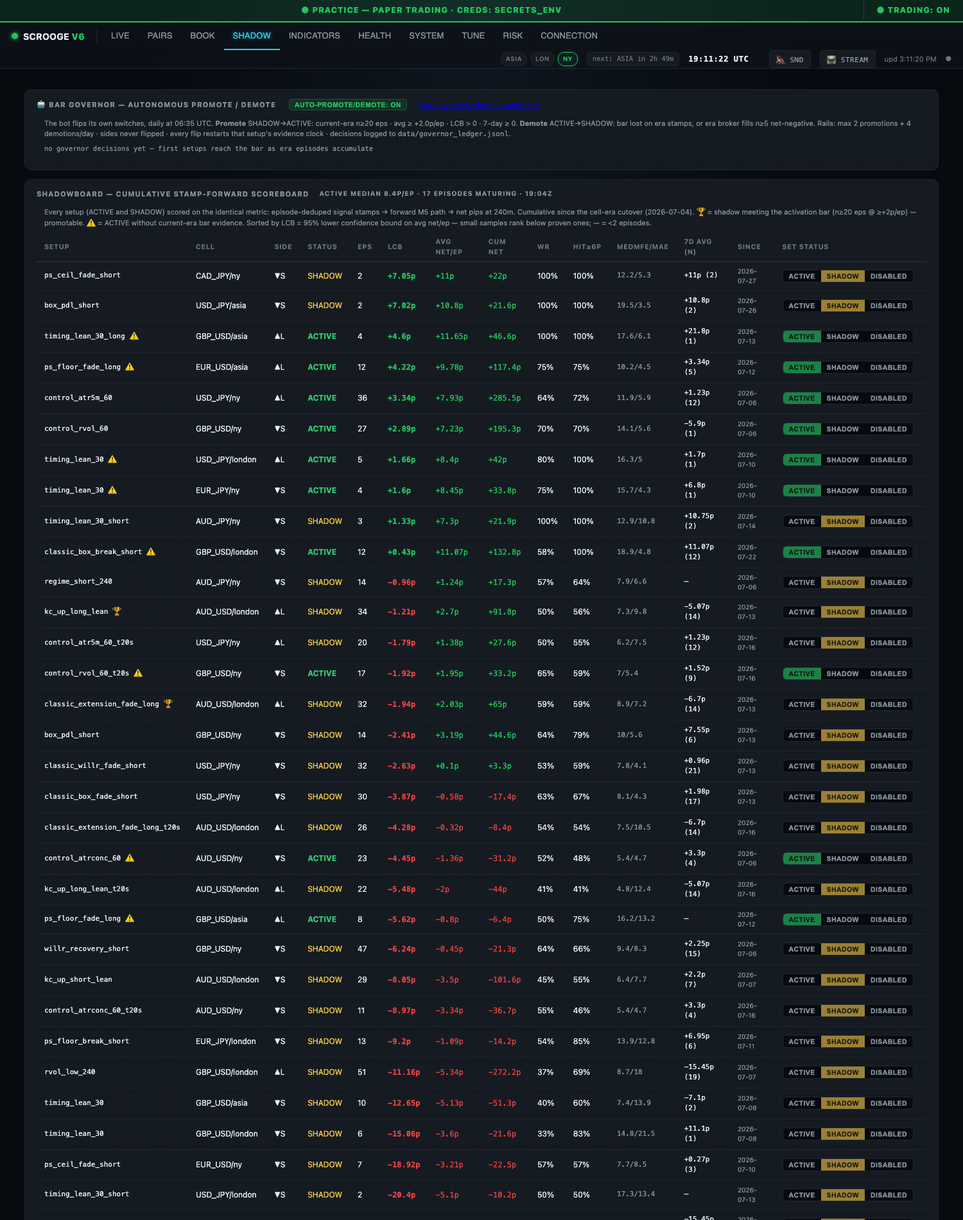
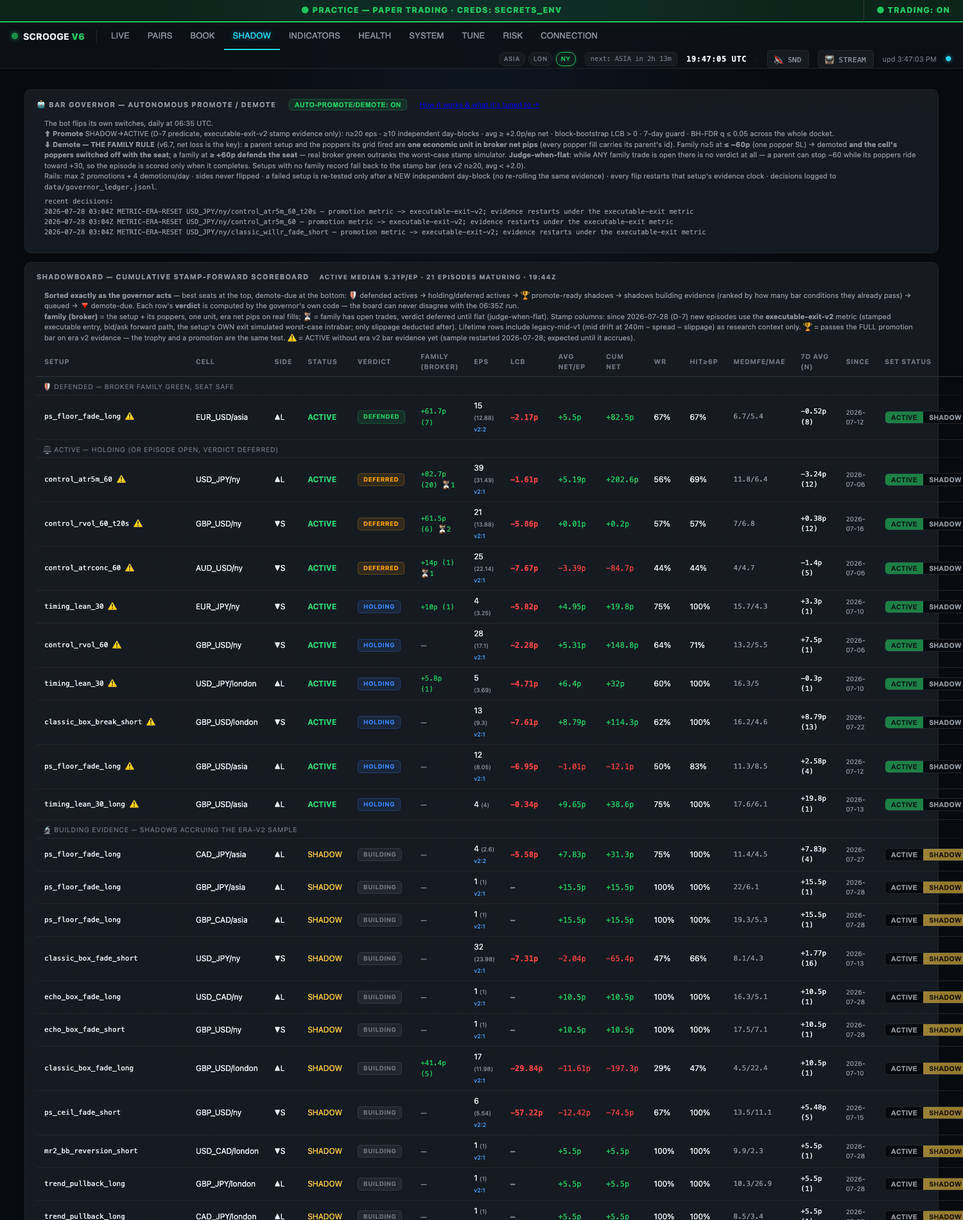
THE BOARD EXPLAINS ITSELF: shadowboard sorted and labeled by the governor
Every row carries the verdict the governor would reach today (DEFENDED /
HOLDING / DEFERRED / PROMOTE READY / BUILDING / QUEUED / DEMOTE DUE),
its broker family net pips (with open-trade deferral badges), and the
board sorts in governor order — defended seats at the top, demote-due
at the bottom, tier headers between. The SHADOW tab states the full
standard: promotion bar, family rule thresholds, judge-when-flat.
Fixes the undefined/undefined ledger lines for ERA-RESET entries.
README: governor-order shadowboard, judge-when-flat, family-rule
motivation in the forward-test list, refreshed SHADOW screenshot.

diff --git a/ops/panel.html b/ops/panel.html
@@ -772,11 +772,19 @@ body.has-ticker{padding-bottom:32px}
          How it works &amp; what it&#39;s tuned to →</a>
     </div>
     <div class="muted" style="padding:0 12px 6px;font-size:11px">
-      The bot flips its own switches, daily at 06:35 UTC. <b>Promote</b> SHADOW→ACTIVE
-      (D-7 predicate, executable-exit-v2 evidence only): n≥20 eps · ≥10 independent
-      day-blocks · avg ≥ +2.0p/ep net · block-bootstrap LCB &gt; 0 · 7-day guard ·
-      BH-FDR q ≤ 0.05 across the whole docket.
-      <b>Demote</b> ACTIVE→SHADOW: bar lost on era v2 stamps, or era broker fills n≥5 net-negative.
+      The bot flips its own switches, daily at 06:35 UTC.<br>
+      <b>⬆ Promote</b> SHADOW→ACTIVE (D-7 predicate, executable-exit-v2 stamp evidence
+      only): n≥20 eps · ≥10 independent day-blocks · avg ≥ +2.0p/ep net ·
+      block-bootstrap LCB &gt; 0 · 7-day guard · BH-FDR q ≤ 0.05 across the whole docket.<br>
+      <b>⬇ Demote — THE FAMILY RULE</b> (v6.7, net loss is the key): a parent setup and
+      the poppers its grid fired are <b>one economic unit in broker net pips</b> (every
+      popper fill carries its parent&#39;s id). Family n≥5 at <b>≤ −60p</b> (one popper SL)
+      → demoted <b>and the cell&#39;s poppers switched off with the seat</b>; a family at
+      <b>≥ +60p defends the seat</b> — real broker green outranks the worst-case stamp
+      simulator. <b>Judge-when-flat</b>: while ANY family trade is open there is no verdict
+      at all — a parent can stop −60 while its poppers ride toward +30, so the episode is
+      scored only when it completes. Setups with no family record fall back to the stamp
+      bar (era v2 n≥20, avg &lt; +2.0).<br>
       Rails: max 2 promotions + 4 demotions/day · sides never flipped · a failed setup is
       re-tested only after a NEW independent day-block (no re-rolling the same evidence) ·
       every flip restarts that setup&#39;s evidence clock · decisions logged to
@@ -790,19 +798,28 @@ body.has-ticker{padding-bottom:32px}
       <span id="sb-meta" class="muted" style="font-size:10px;margin-left:8px"></span>
     </div>
     <div class="muted" style="padding:0 12px 8px;font-size:11px">
-      Every setup (ACTIVE and SHADOW) scored on the identical metric. Since 2026-07-28 (D-7) new episodes use the
-      <b>executable-exit-v2</b> metric: the stamped executable entry (ask long / bid short), a bid/ask forward path, and the setup's
-      OWN exit geometry simulated worst-case intrabar — spread is paid inside the geometry, only slippage is deducted after.
-      Older lifetime rows are legacy-mid-v1 (mid drift at 240m, minus spread + slippage) and remain as research context only.
-      🏆 = shadow passing the governor's FULL promotion predicate on current-era v2 evidence: n≥20 · ≥10 independent day-blocks ·
-      avg ≥ +2p net · block-bootstrap LCB &gt; 0 · 7d guard · BH-FDR q ≤ 0.05 — the trophy and a promotion are the same test.
-      ⚠ = ACTIVE without current-era v2 bar evidence (the v2 sample restarted at zero on 2026-07-28's metric change; expected until it accrues).
-      Sorted by lifetime LCB (z≈2.33, overlap-aware n) for continuity; capital decisions read only the era evidence.
+      <b>Sorted exactly as the governor acts</b> — best seats at the top, demote-due at the
+      bottom: 🛡 defended actives → holding/deferred actives → 🏆 promote-ready shadows →
+      shadows building evidence (ranked by how many bar conditions they already pass) →
+      queued → 🔻 demote-due. Each row&#39;s <b>verdict</b> is computed by the governor&#39;s own
+      code — the board can never disagree with the 06:35Z run.<br>
+      <b>family (broker)</b> = the setup + its poppers, one unit, era net pips on real
+      fills; ⏳ = family has open trades, verdict deferred until flat (judge-when-flat).
+      Stamp columns: since 2026-07-28 (D-7) new episodes use the <b>executable-exit-v2</b>
+      metric (stamped executable entry, bid/ask forward path, the setup&#39;s OWN exit
+      simulated worst-case intrabar; only slippage deducted after). Lifetime rows include
+      legacy-mid-v1 (mid drift at 240m − spread − slippage) as research context only.
+      🏆 = passes the FULL promotion bar on era v2 evidence — the trophy and a promotion
+      are the same test. ⚠ = ACTIVE without era v2 bar evidence yet (sample restarted
+      2026-07-28; expected until it accrues).
     </div>
     <table id="sb-tbl" style="width:100%">
       <thead><tr>
-        <th>setup</th><th>cell</th><th>side</th><th>status</th><th>eps</th>
-        <th title="avg - 1.645·sd/√n — the board's sort key">LCB</th>
+        <th>setup</th><th>cell</th><th>side</th><th>status</th>
+        <th title="The governor's own call for this row, today: DEFENDED / HOLDING / DEFERRED / PROMOTE READY / BUILDING (with the bar conditions still failing) / QUEUED / DEMOTE DUE">verdict</th>
+        <th title="Broker family: parent + its poppers, one unit — era net pips (n trades) · ⏳k = k trades open, verdict deferred until flat">family (broker)</th>
+        <th>eps</th>
+        <th title="lifetime avg − z·sd/√n_eff (display only — capital reads era v2 + family)">LCB</th>
         <th>avg net/ep</th><th>cum net</th><th>WR</th><th>hit≥6p</th><th>medMFE/MAE</th><th>7d avg (n)</th><th>since</th>
         <th title="Promote a good shadow to ACTIVE, or DISABLE it — writes config/cells">set status</th>
       </tr></thead>
@@ -1102,7 +1119,18 @@ async function pollShadowboard(){
     const d=await r.json();
     document.getElementById('sb-meta').textContent=
       `active median ${d.active_median??'—'}p/ep · ${d.pending||0} episodes maturing · ${(d.generated||'').slice(11,16)}Z`;
+    const TIER_ICON={1:'🛡',2:'⚖',3:'🏆',4:'🔬',5:'⏳',6:'🔻',7:'🪦'};
+    let lastTier=null;
     document.getElementById('sb-body').innerHTML=(d.rows||[]).map(x=>{
+      const tier=x.gov?x.gov.tier:7;
+      let hdr='';
+      if(tier!==lastTier){
+        lastTier=tier;
+        const lbl=(d.tiers&&d.tiers[tier])||'';
+        hdr=`<tr><td colspan="16" style="padding:8px 10px 4px;font-size:10.5px;letter-spacing:.06em;
+          text-transform:uppercase;color:var(--fg3);border-bottom:1px solid rgba(255,255,255,.06)">
+          ${TIER_ICON[tier]||''} ${lbl}</td></tr>`;
+      }
       // D-7: bar_met IS the governor's promotion predicate (current-era v2
       // evidence, block bootstrap, BH-FDR) — trophy == promotable, exactly.
       const eraTip=x.era?`era v2: n=${x.era.n} days=${x.era.days} avg=${x.era.avg}p blcb=${x.era.lcb??'—'} q=${x.era.q??'—'}${x.era.codes&&x.era.codes.length?' fails:'+x.era.codes.join(','):''}`
@@ -1118,10 +1146,27 @@ async function pollShadowboard(){
       const ctrl=(pair&&session&&x.setup)?statusControl(pair,session,x.setup,liveStatus,'sb')
         :'<span class="muted">—</span>';
       const pn=(v,d=0)=>v==null?'—':(v>0?'+':'')+v+'p';   // null-safe pips
-      return `<tr${x.queued?' style="opacity:.55"':''}>
+      // the governor's verdict + the broker family cell (v6.8.0)
+      const g=x.gov;
+      const VCLS={'DEFENDED':'pill-pass','PROMOTE READY':'pill-pass','HOLDING':'pill-info',
+                  'DEFERRED':'pill-warn','BUILDING':'pill-block','QUEUED':'pill-block',
+                  'DEMOTE DUE':'pill-fail'};
+      const vcell=g?`<span class="pill ${VCLS[g.verdict]||'pill-block'}" title="${g.reason||''}"
+        style="font-size:9.5px">${g.verdict}</span>`:'<span class="muted">—</span>';
+      let fcell='<span class="muted">—</span>';
+      if(g&&g.family&&(g.family.n||g.family.n_open)){
+        const fn=g.family.net_pips, open=g.family.n_open;
+        fcell=`<span class="mono ${fn>0?'pos':(fn<0?'neg':'muted')}"
+          title="parent + its poppers, era broker net: ${fn>0?'+':''}${fn}p over ${g.family.n} closed trade(s) (\$${g.family.net_usd})${open?' · '+open+' open — verdict deferred until flat':''}">
+          ${g.family.n?((fn>0?'+':'')+fn+'p ('+g.family.n+')'):'no closes yet'}${open?' ⏳'+open:''}</span>`;
+      }
+      return hdr+`<tr${x.queued?' style="opacity:.55"':''}>
         <td class="mono" style="font-size:11px">${x.setup}${beat}${warn}${x.queued?' <span class="muted" title="wired, awaiting first scored episode (stamps mature after 4h)">⏳</span>':''}</td>
         <td>${x.cell}</td><td>${x.side==='long'?'▲L':'▼S'}</td>
-        <td ${stcls}>${x.status}</td><td title="raw episodes (overlap-adjusted effective n) · v2 = executable-exit metric episodes">${x.episodes}${x.n_eff!=null?' <span class="muted" style="font-size:9px">('+x.n_eff+')</span>':''}${x.n_v2?' <span style="font-size:9px;color:#4aa3ff" title="executable-exit-v2 episodes'+(x.n_ambig?' ('+x.n_ambig+' ambiguous-bar, scored worst-case)':'')+'">v2:'+x.n_v2+'</span>':''}</td>
+        <td ${stcls}>${x.status}</td>
+        <td>${vcell}</td>
+        <td style="font-size:11px">${fcell}</td>
+        <td title="raw episodes (overlap-adjusted effective n) · v2 = executable-exit metric episodes">${x.episodes}${x.n_eff!=null?' <span class="muted" style="font-size:9px">('+x.n_eff+')</span>':''}${x.n_v2?' <span style="font-size:9px;color:#4aa3ff" title="executable-exit-v2 episodes'+(x.n_ambig?' ('+x.n_ambig+' ambiguous-bar, scored worst-case)':'')+'">v2:'+x.n_v2+'</span>':''}</td>
         <td class="mono ${x.lcb==null?'muted':(x.lcb>0?'pos':'neg')}"><b>${x.lcb==null?'—':(x.lcb>0?'+':'')+x.lcb+'p'}</b></td>
         <td class="mono ${x.avg_net240==null?'muted':ncls}">${pn(x.avg_net240)}</td>
         <td class="mono ${x.cum_net240==null?'muted':(x.cum_net240>0?'pos':'neg')}">${pn(x.cum_net240)}</td>
@@ -1146,8 +1191,10 @@ async function pollGovernor(){
       `<button class="pill ${on?'pill-pass':'pill-fail'}" style="cursor:pointer;border:none;font-weight:700"
         onclick="setGovernor(${!on})" title="Toggle autonomous promote/demote (writes config/governor_config.json)">
         AUTO-PROMOTE/DEMOTE: ${on?'ON':'OFF'}</button>`;
-    const led=(d.ledger_tail||[]).slice(0,3).map(e=>
-      `${(e.t||'').slice(0,16).replace('T',' ')}Z ${e.action} ${e.pair}/${e.session}/${e.setup}${e.dry_run?' (dry-run)':''} — ${e.why||''}`);
+    const led=(d.ledger_tail||[]).slice(0,3).map(e=>{
+      // flip entries carry pair/session/setup; ERA-RESET entries carry "key"
+      const who=e.pair?`${e.pair}/${e.session}/${e.setup}`:(e.key||'').replace(/\|/g,'/');
+      return `${(e.t||'').slice(0,16).replace('T',' ')}Z ${e.action} ${who}${e.dry_run?' (dry-run)':''} — ${e.why||''}`;});
     document.getElementById('gov-ledger').innerHTML=
       led.length?('recent decisions:<br>'+led.map(escape).join('<br>'))
                 :'no governor decisions yet — first setups reach the bar as era episodes accumulate';

diff --git a/ops/shadowboard.py b/ops/shadowboard.py
@@ -234,6 +234,70 @@ def _setup_aliases():
     except Exception:
         return {}
 
+_FAM_CACHE: dict = {"ts": 0.0, "data": {}}
+_FAM_TTL_S = 600     # broker families view refreshed at most every 10 min
+
+
+def _families():
+    """(pair, family_setup) -> broker families row (parent + poppers, one
+    unit, incl. n_open). Cached; runs only inside the refresh daemon thread,
+    never in a request handler. Empty dict on any failure — the board then
+    simply shows no family column, it never breaks."""
+    now = time.time()
+    if now - _FAM_CACHE["ts"] < _FAM_TTL_S:
+        return _FAM_CACHE["data"]
+    try:
+        import sys as _sys
+        out = subprocess.run(
+            [_sys.executable, str(_ROOT / "research" / "tools" / "broker_setup_audit.py"),
+             "--json"], capture_output=True, text=True, timeout=180)
+        fams = {(r["instrument"], r["setup"]): r
+                for r in json.loads(out.stdout).get("families", [])}
+        _FAM_CACHE.update(ts=now, data=fams)
+    except Exception:
+        _FAM_CACHE["ts"] = now          # don't hammer a failing audit
+    return _FAM_CACHE["data"]
+
+
+# Governor-ordered tiers — the board sorts EXACTLY the way capital moves.
+TIER_LABELS = {
+    1: "DEFENDED — broker family green, seat safe",
+    2: "ACTIVE — holding (or episode open, verdict deferred)",
+    3: "PROMOTE READY — passes the full bar at the next 06:35Z run",
+    4: "BUILDING EVIDENCE — shadows accruing the era-v2 sample",
+    5: "QUEUED — wired, no scored era evidence yet",
+    6: "DEMOTE DUE — loses the seat at the next 06:35Z run",
+    7: "RETIRED / EX-SIDE — history kept as the autopsy",
+}
+
+
+def _gov_verdict(status, era_dict, e_obj, f, gc, min_raw):
+    """One row's governor view -> (tier, verdict, reason, score).
+    Mirrors ops.governor exactly: ACTIVE rows through active_verdict (family
+    rule + judge-when-flat, e_obj = the SetupEvidence the governor reads),
+    SHADOW rows through the promotion predicate (era_dict = its display form)."""
+    from ops.governor import active_verdict as _av
+    if status == "ACTIVE":
+        demote, reason = _av(e_obj, f, gc, min_raw)
+        famnet = f["net_pips"] if f else 0.0
+        if demote:
+            return 6, "DEMOTE DUE", reason, famnet
+        if reason == "family_green":
+            return 1, "DEFENDED", reason, famnet
+        if reason == "episode_open":
+            return 2, "DEFERRED", reason, famnet
+        return 2, "HOLDING", reason, \
+            (famnet or (era_dict.get("avg") if era_dict else 0) or 0)
+    # SHADOW
+    if era_dict and era_dict.get("promotable"):
+        return 3, "PROMOTE READY", "passes full bar", (era_dict.get("lcb") or 0)
+    if era_dict:
+        passed = 6 - len(era_dict.get("codes") or [])
+        return 4, "BUILDING", "needs " + ",".join(era_dict.get("codes") or []), \
+            passed * 1000 + (era_dict.get("avg") or 0)
+    return 5, "QUEUED", "no scored era evidence yet", 0.0
+
+
 def _aggregate(db):
     import statistics as st
     aliases = _setup_aliases()
@@ -262,14 +326,21 @@ def _aggregate(db):
     # D-7: the trophy IS the governor's promotion predicate — one shared
     # engine (current era, executable-exit-v2 only, block bootstrap, BH-FDR).
     # Lifetime columns stay as research context; only `era` governs capital.
+    _gov_ok = False
     try:
         from core.trial_evidence import current_era_evidence
         from ops.governor import book as _gbook, cfg as _gcfg, \
-            load_state as _gstate, _aliases as _gal
+            load_state as _gstate, _aliases as _gal, \
+            family_era_view as _fview, active_verdict as _averdict
+        _gc_full = _gcfg()
+        _eras = (_gstate() or {}).get("era_start", {})
         _ev = current_era_evidence(db["episodes"], _gbook(), _gstate(),
-                                   _gcfg(), aliases=_gal())
+                                   _gc_full, aliases=_gal())
+        _gov_ok = True
     except Exception:
-        _ev = {}
+        _ev, _gc_full, _eras = {}, dict(_gc), {}
+    _fams = _families() if _gov_ok else {}
+    _min_raw = int(_gc_full.get("min_raw_episodes", _gc_full.get("bar_n", 20)))
     for (cell, setup, side), g in groups.items():
         rows = g["rows"]; s = [r["scores"] for r in rows]
         pair = cell.split("/")[0]
@@ -297,6 +368,23 @@ def _aggregate(db):
                    "avg": _e.net_avg, "lcb": _e.block_lcb, "q": _e.q_value,
                    "promotable": _e.promotable,
                    "codes": list(_e.reason_codes)}
+        # THE GOVERNOR'S OWN VIEW (v6.8.0): each row carries the verdict the
+        # governor would reach today — family rule, judge-when-flat, promotion
+        # predicate — plus the tier that orders the board exactly as capital
+        # moves. Best seats at the top, demote-due at the bottom.
+        gov = None
+        if _gov_ok and _status in ("ACTIVE", "SHADOW"):
+            sess = cell.split("/")[1] if "/" in cell else "?"
+            fam_row = _fams.get((pair, setup))
+            f = None
+            if fam_row is not None:
+                era_start = _eras.get("|".join((pair, sess, setup)),
+                                      str(_gc_full.get("default_era_start", "")))
+                f = _fview(fam_row, era_start)
+            tier, verdict, reason, score = _gov_verdict(
+                _status, era, _e, f, _gc_full, _min_raw)
+            gov = {"tier": tier, "verdict": verdict, "reason": reason,
+                   "score": round(float(score), 2), "family": f}
         out.append({
             "cell": cell, "setup": setup, "side": side,
             "status": _status,
@@ -324,6 +412,7 @@ def _aggregate(db):
             # the board can never award what the governor would reject.
             "era": era,
             "bar_met": bool(era and era["promotable"]),
+            "gov": gov,
         })
     # QUEUED rows (2026-07-27, Brock: "I don't see the new pairs on the board"):
     # every wired ACTIVE/SHADOW setup with zero scored episodes still gets a
@@ -332,6 +421,16 @@ def _aggregate(db):
     for (pair, sess, sid), (status, side) in _cfgst.items():
         cell = f"{pair}/{sess}"
         if status in ("ACTIVE", "SHADOW") and (cell, sid) not in have:
+            gov = None
+            if _gov_ok:
+                fam_row = _fams.get((pair, sid))
+                f = _fview(fam_row, _eras.get(
+                    "|".join((pair, sess, sid)),
+                    str(_gc_full.get("default_era_start", "")))) if fam_row else None
+                tier, verdict, reason, score = _gov_verdict(
+                    status, None, None, f, _gc_full, _min_raw)
+                gov = {"tier": tier, "verdict": verdict, "reason": reason,
+                       "score": round(float(score), 2), "family": f}
             out.append({
                 "cell": cell, "setup": sid, "side": side, "status": status,
                 "episodes": 0, "cum_net240": None, "avg_net240": None,
@@ -339,13 +438,19 @@ def _aggregate(db):
                 "med_mae": None, "avg_net60": None, "n_v2": 0, "n_ambig": 0,
                 "last7_avg": None, "era": None,
                 "last7_n": 0, "first": None, "bar_met": False, "queued": True,
+                "gov": gov,
             })
-    # Sort by LCB (evidence-weighted), not raw avg — None (n<2) sorts last,
-    # queued (no episodes) after everything scored.
-    out.sort(key=lambda r: (r["lcb"] is not None,
-                            r["lcb"] if r["lcb"] is not None else 0.0,
-                            r["avg_net240"] if r["avg_net240"] is not None else -1e9),
-             reverse=True)
+    # GOVERNOR ORDER (v6.8.0): tier asc (defended seats first, demote-due
+    # last-but-for-retired), score desc inside a tier — the board reads
+    # top-to-bottom exactly as the governor ranks the book. Rows without a
+    # gov view (EX-SIDE, engine-degraded) fall back to the old LCB order.
+    def _key(r):
+        g = r.get("gov")
+        tier = g["tier"] if g else 7
+        score = g["score"] if g else (r["lcb"] if r["lcb"] is not None else -1e9)
+        return (tier, -score,
+                -(r["avg_net240"] if r["avg_net240"] is not None else 1e9))
+    out.sort(key=_key)
     return out
 
 _REFRESHING = {"on": False}
@@ -358,6 +463,7 @@ def _refresh_worker():
         active = [r["avg_net240"] for r in rows
                   if r["status"] == "ACTIVE" and r["avg_net240"] is not None]
         data = {"rows": rows,
+                "tiers": TIER_LABELS,
                 "active_median": round(sorted(active)[len(active)//2], 2) if active else None,
                 "pending": sum(1 for e in db["episodes"].values() if not e["scores"]),
                 "generated": datetime.now(timezone.utc).isoformat()}

diff --git a/README.md b/README.md
@@ -57,10 +57,13 @@ tapes, or contributed — walks the same ladder:
    `CELLSHADOW` line every time it would have fired — zero orders, zero risk. Stamps are
    episode-deduped and scored on the **forward M5 path** (net pips at 240m) — market truth,
    not our own exit luck.
-2. **The Shadowboard.** Every setup, ACTIVE and SHADOW alike, is ranked on the identical
-   metric, sorted by a **95% lower confidence bound** (`avg − 1.645·σ/√n`) so a lucky
-   3-episode row can never outrank a proven 30-episode one. Wired-but-unscored setups show
-   as queued ⏳ rows — the whole docket is visible, waiting is a state, not an absence.
+2. **The Shadowboard.** Every setup, ACTIVE and SHADOW alike, is scored on the identical
+   metric and **sorted exactly as the governor acts** — defended actives at the top, then
+   holding/deferred, promote-ready shadows, shadows building evidence (ranked by how many
+   bar conditions they already pass), queued ⏳ rows, and demote-due at the bottom. Each
+   row's **verdict** (DEFENDED / HOLDING / DEFERRED / PROMOTE READY / BUILDING / DEMOTE
+   DUE) is computed by the governor's own code, so the board can never disagree with the
+   06:35Z run — the whole docket is visible, waiting is a state, not an absence.
 3. **Promotion — the activation bar, flipped automatically.** The **[Bar Governor](docs/GOVERNOR.md)**
    (`ops/governor.py`, daily) promotes a shadow to ACTIVE when its **current-era** evidence
    clears the full predicate: **n ≥ 20 executable-exit episodes across ≥ 10 independent
@@ -79,7 +82,10 @@ tapes, or contributed — walks the same ladder:
    cell's poppers are switched off with it; family at **+60p or better defends the seat** —
    real broker green outranks the worst-case stamp simulator. Only unfamilied actives fall
    back to the stamp bar (era v2 n ≥ 20, avg < +2.0) — audited against the broker, never
-   our own journal. Demoted setups keep stamping as shadows and can re-earn the seat. Every flip
+   our own journal. **Judge-when-flat:** while any family trade is open there is no verdict
+   at all — a parent can stop −60p while its poppers are still riding toward +30p, so the
+   episode is scored only when it completes, never mid-scale-in. Demoted setups keep
+   stamping as shadows and can re-earn the seat. Every flip
    restarts that setup's evidence clock: **proof never blends across eras**, and every
    decision is written to a public ledger (`data/governor_ledger.jsonl`). Rails: max 2
    promotions + 4 demotions per day, sides never flipped, `manual_only` respected.
@@ -129,10 +135,12 @@ flowchart LR
 
 A self-contained local control panel (`127.0.0.1:8084` — [bind elsewhere](docs/DASHBOARD.md) with `DASHBOARD_HOST`): live account + open trades, per-pair signal cards, the cell book, live exit tuning, popper switches, credentials, and the trading pause. Two tabs worth showing:
 
-**SHADOW — the trial courtroom.** The Bar Governor card (ON/OFF switch, the standard, recent
-decisions) above the LCB-ranked Shadowboard with promote/demote controls on every row:
+**SHADOW — the trial courtroom.** The Bar Governor card states the full standard — the
+promotion bar, the family rule, judge-when-flat — above a Shadowboard sorted exactly as the
+governor acts (defended seats first, demote-due last), with each row carrying the governor's
+own verdict, its broker family net pips, and promote/demote controls:
 
-![The SHADOW tab: Bar Governor card + LCB-ranked Shadowboard](docs/images/dashboard-shadow.png)
+![The SHADOW tab: the governor's standard + the verdict-ranked Shadowboard](docs/images/dashboard-shadow.png)
 
 **INDICATORS — why is/isn't it firing.** Every pair leads with its current session's ACTIVE
 setups as live condition bars — green zone + marker when in range, the blocking condition
@@ -169,6 +177,10 @@ Everything live is a **forward experiment on a practice account**, scored agains
 3. **The Party Package (V6.1)** — re-arming popper grids, deployed *against* their own sim
    verdict on purpose: real fills will confirm or refute the *cost model itself* — the one
    variable no offline sim can settle ([paper](docs/papers/PAPER_party_package_scale_in_2026-07-19.md)).
+   First 12 days of tape (90 fills): one family produced the entire net loss — GBP/USD-long
+   parents+poppers −$858 while every other family ran green — which is what motivated the
+   **family rule** (v6.7): the parent and its poppers are judged as one unit, in broker net
+   pips, only when the episode is flat.
 4. **The replay shadow book (v6.3)** — 10 never-traded pairs running the shapes that won on
    them in the March/April 2026 tapes, shadows only, activation bar as the sole judge.
 5. **The arraigned record (v6.4)** — Strategy E and the Strategy-Book five, re-tested forward

diff --git a/CHANGELOG.md b/CHANGELOG.md
@@ -4,6 +4,31 @@ Notable changes to Mr. Scrooge. Format loosely follows [Keep a Changelog](https:
 The full narrative history lives in [docs/SCROOGE_HISTORY.md](docs/SCROOGE_HISTORY.md) and the
 [Book of Bugs](docs/BOOK_OF_BUGS.md); this file tracks the public-repo era.
 
+## [6.8.0] — 2026-07-28 — "The Board Explains Itself"
+
+The SHADOW tab now states the whole standard and sorts the whole docket exactly as the
+governor acts — the dashboard and the 06:35Z run can never tell different stories.
+
+### Added
+- **Governor verdicts on every Shadowboard row** (`ops/shadowboard.py`): each ACTIVE/SHADOW
+  row carries the verdict the governor's own code would reach today — DEFENDED / HOLDING /
+  DEFERRED (episode open) / PROMOTE READY / BUILDING (with the bar conditions still
+  failing) / QUEUED / DEMOTE DUE — plus its broker **family** view (era net pips, closed
+  trades, open-trade count). Family data comes from the same `broker_setup_audit` families
+  block the governor reads, cached 10 min, fetched only in the board's daemon thread.
+- **Governor-ordered board**: rows sort by verdict tier — defended seats first, then
+  holding/deferred, promote-ready, building (ranked by conditions passed), queued, and
+  demote-due at the bottom — with tier group headers in the SHADOW tab. The old lifetime-LCB
+  order remains only as the fallback for rows outside the governor's view (EX-SIDE).
+- **SHADOW tab explains the rules**: the Bar Governor card now states the full promotion
+  bar, the FAMILY RULE with thresholds (−60p demote + poppers off / +60p defends), and
+  judge-when-flat; the Shadowboard legend explains the sort, the verdict column, and the
+  family column. New columns: **verdict**, **family (broker)** with ⏳ open-trade badges.
+
+### Fixed
+- Governor ledger card rendered `undefined/undefined/undefined` for ERA-RESET entries
+  (they carry `key`, not pair/session/setup).
+
 ## [6.7.1] — 2026-07-28 — "Judge When Flat"
 
 Brock's boundary case: a parent stops −60p while its poppers are still riding toward +30 —
